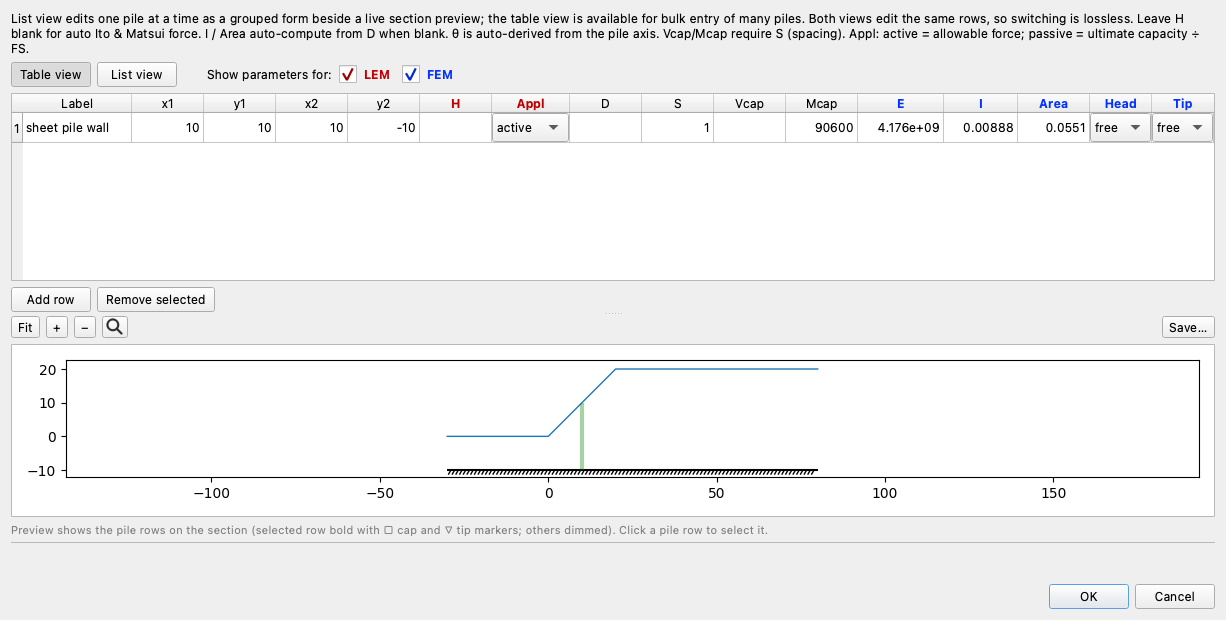
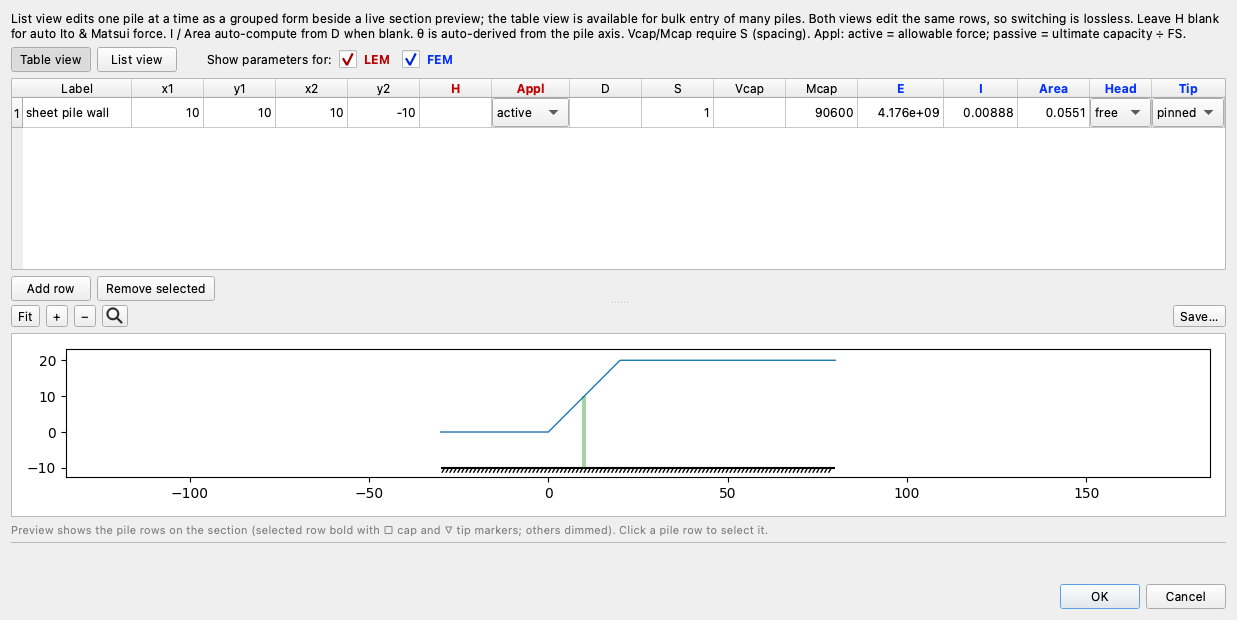
docs(tutorials): FEM-3 — the reader states the toe: Tip = pinned on the shafts and the wall before the first run; completed wall file carries pinned
Claude-Session: https://claude.ai/code/session_01XjjT2aBxw8gY7EFdpoUcpj

diff --git a/tools/make_tutorial_figures.py b/tools/make_tutorial_figures.py
@@ -5059,13 +5059,13 @@ def fem03_wall():
     #: (label, tip, 1D element size, keep Mcap, mesh figure, shear-strain figure,
     #: profile figure)
     runs = [
-        ("wall, tip free", "free", None, True, "fem03_mesh_wall.png",
+        ("wall, tip pinned", "pinned", None, True, "fem03_mesh_wall.png",
          "fem03_wall_shear.png", "fem03_wall_profiles.png"),
         ("wall, tip fixed", "fixed", None, True, None,
          "fem03_wall_shear_fixed.png", "fem03_wall_profiles_fixed.png"),
         ("wall, tip fixed, 1D 0.5", "fixed", FEM03_REFINED_1D, True, None, None,
          "fem03_wall_profiles_refined.png"),
-        ("wall, tip free, Mcap blank", "free", None, False, None, None, None),
+        ("wall, tip pinned, Mcap blank", "pinned", None, False, None, None, None),
     ]
     for label, tip, size_1d, keep_cap, mesh_fig, shear_fig, prof_fig in runs:
         sd = load_slope_data(FEM03_WALL_DONE)

diff --git a/tools/build_pile_wall_tutorial.py b/tools/build_pile_wall_tutorial.py
@@ -80,7 +80,7 @@ WALL_ROW = {
     "H": None, "theta_p": 0.0, "D_pile": None, "S": 1.0,
     "E": 4.176e9, "I": 0.00888, "area": 0.0551,
     "V_cap": None, "M_cap": 90600.0,
-    "head_fixity": "free", "tip_fixity": "free",
+    "head_fixity": "free", "tip_fixity": "pinned",
     "appl": "active", "label": "sheet pile wall",
 }
 

diff --git a/docs/tutorials/fem03_piles.md b/docs/tutorials/fem03_piles.md
@@ -188,8 +188,8 @@ the derivation from `D`. Hovering `S` says what each engine does with it:
 `Appl` is `active`, meaning the computed force enters the equilibrium equations
 as it stands; the alternative, `passive`, divides it by the factor of safety,
 and [LEM-12](lem12_piles.md#the-pile-rows) reads the whole row column by column.
-Both rows open with `Head` and `Tip` on `free`, which a later section returns
-to. Click **Cancel**.
+Both rows open with `Head` and `Tip` on `free`; the finite element run below
+sets `Tip`, and a later section comes back to it. Click **Cancel**.
 
 ### The limit equilibrium answer
 
@@ -234,6 +234,12 @@ the lower row and 10 on the upper one:
 The two rows are drawn in green, each a chain of beam elements lying on
 triangle edges and sharing nodes with the clay on both sides; the base is fixed
 and the two vertical boundaries are rollers.
+
+One input is still to be stated before the run: where the shafts end. Each row
+runs to the rigid base, and a shaft standing on rock is pinned there — held in
+place, free to rotate. Open **Piles**, press **Table view**, set `Tip` to
+`pinned` on both rows, and **OK**. The mesh is unaffected, because a fixity is
+not geometry.
 
 Click **Run → Run FEM…**
 
@@ -298,10 +304,10 @@ the rows as shipped nothing reaches capacity anyway. What moves the answer is
 restraining rotation at an end.
 
 That is a physical question about the shafts rather than a modeling knob. Both
-rows run from the face down to the rigid base, and both open with `Head` and
-`Tip` on `free`. Each row's bottom node lands on that fixed base. Its
-translations are held there, but its rotation is not, so the tip behaves as a pin
-and the shaft swings about it: the moment falls to zero at both ends, and at the
+rows run from the face down to the rigid base with `Tip` on `pinned`, as
+entered above. Each row's bottom node lands on that fixed base. Its
+translations are held there, but its rotation is not, so the tip is a pin and
+the shaft swings about it: the moment falls to zero at both ends, and at the
 captured mechanism the shafts stand at 44% of their moment capacity. A drilled
 shaft bearing on rock behaves that way. One socketed into the rock does not, and
 `Tip` is the cell that says which it is. The cell offers three settings: `free`,
@@ -327,14 +333,13 @@ different one:
 
 The deep band that ran up from the flat ground beyond the toe is gone. What is
 left daylights at the upper row's head, where the strain peaks at 0.29 against
-the free-tip run's 0.75, and runs back from there into the crest — up the face
+the pinned-tip run's 0.75, and runs back from there into the crest — up the face
 above the row and along the ground surface to about x = 33 at elevation 15 to 20.
 Four elements stand above half that peak, all of them between x = 10.9 and 14.1
 at elevation 9.9 to 10.9. The mechanism has moved above the reinforcement
 instead of passing through it.
 
-Set `Tip` back to `free` on both rows, or reopen the file, before the next
-section.
+Set `Tip` back to `pinned` on both rows before the next section.
 
 ### What spacing does to each engine
 
@@ -397,7 +402,7 @@ does not.
 
 ### Which answer is right
 
-With the tips free the two engines are 0.48 apart. With the tips fixed they are
+With the tips pinned the two engines are 0.48 apart. With the tips fixed they are
 0.049 apart — 1.842 against 1.793, under 3%. The tip condition, not the engine,
 is most of the disagreement, and each engine treats it differently.
 
@@ -412,7 +417,7 @@ it, and the limit assumes the shaft develops its full moment capacity there.
 
 The finite element run does not assume it. It computes the moment the soil can
 actually push into the member under the restraint the file states, and reports
-it. With the toe free the shaft swings about the pin and reaches 44% of capacity
+it. With the toe pinned the shaft swings about the pin and reaches 44% of capacity
 at elevation −4, the elevation the limit equilibrium arm is measured to; fixing
 the toe makes it bend against a restraint instead, and it reaches 100%. So the
 two engines agree once the model is told what the limit equilibrium method had
@@ -539,9 +544,9 @@ never uses a stated pile force.
 A new row also opens with **Appl** on `active` and both **Head** and **Tip** on
 `free`. `Appl` is inert here: it is a limit equilibrium input, and a strength
 reduction run never reads it. `Head` `free` is a driven sheet pile with no
-capping beam. `Tip` `free` is the wall's toe standing on the base rather than
-driven into it — the base boundary pins it, exactly as it pinned the shafts —
-which is the first of the two runs below.
+capping beam. Set `Tip` to `pinned`: the wall's toe stands on the base rather
+than being driven into it, held in place and free to rotate, exactly as the
+shafts were — the first of the two runs below.
 
 Click **OK**.
 
@@ -610,7 +615,7 @@ The wall's toe stands on the rigid base, and the first half's runs showed what
 the tip condition is worth to a member that ends there. Open **Piles**, set
 `Tip` to `fixed` — a wall driven or socketed into the base rather than standing
 on it — and **OK**. The mesh survives the change. Run the same bracket again;
-it finishes sooner than the free-tip run, since a slope that is further from
+it finishes sooner than the pinned-tip run, since a slope that is further from
 failing decides each trial in fewer iterations.
 
 **FS = 1.543**, from [1.5391, 1.5469]: the credit over the bare slope goes from
